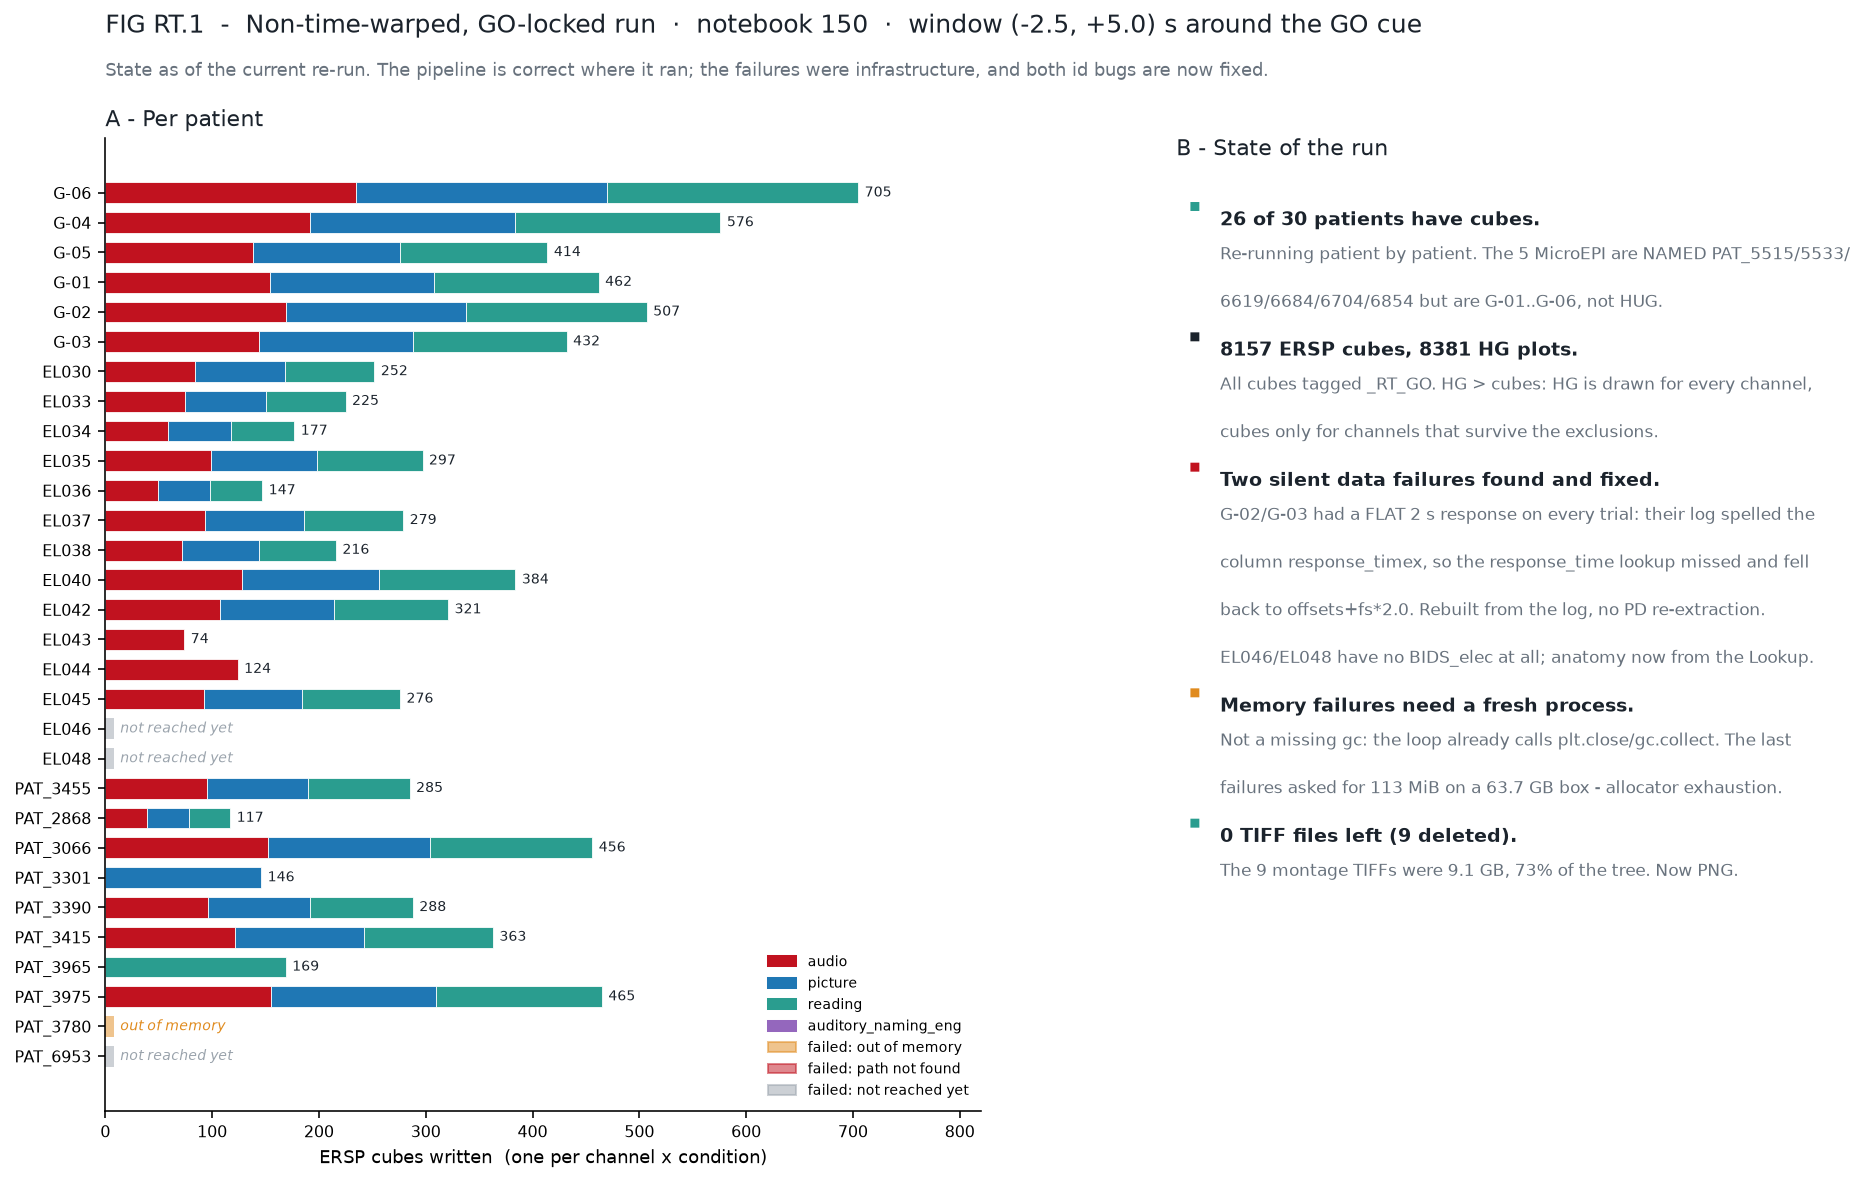
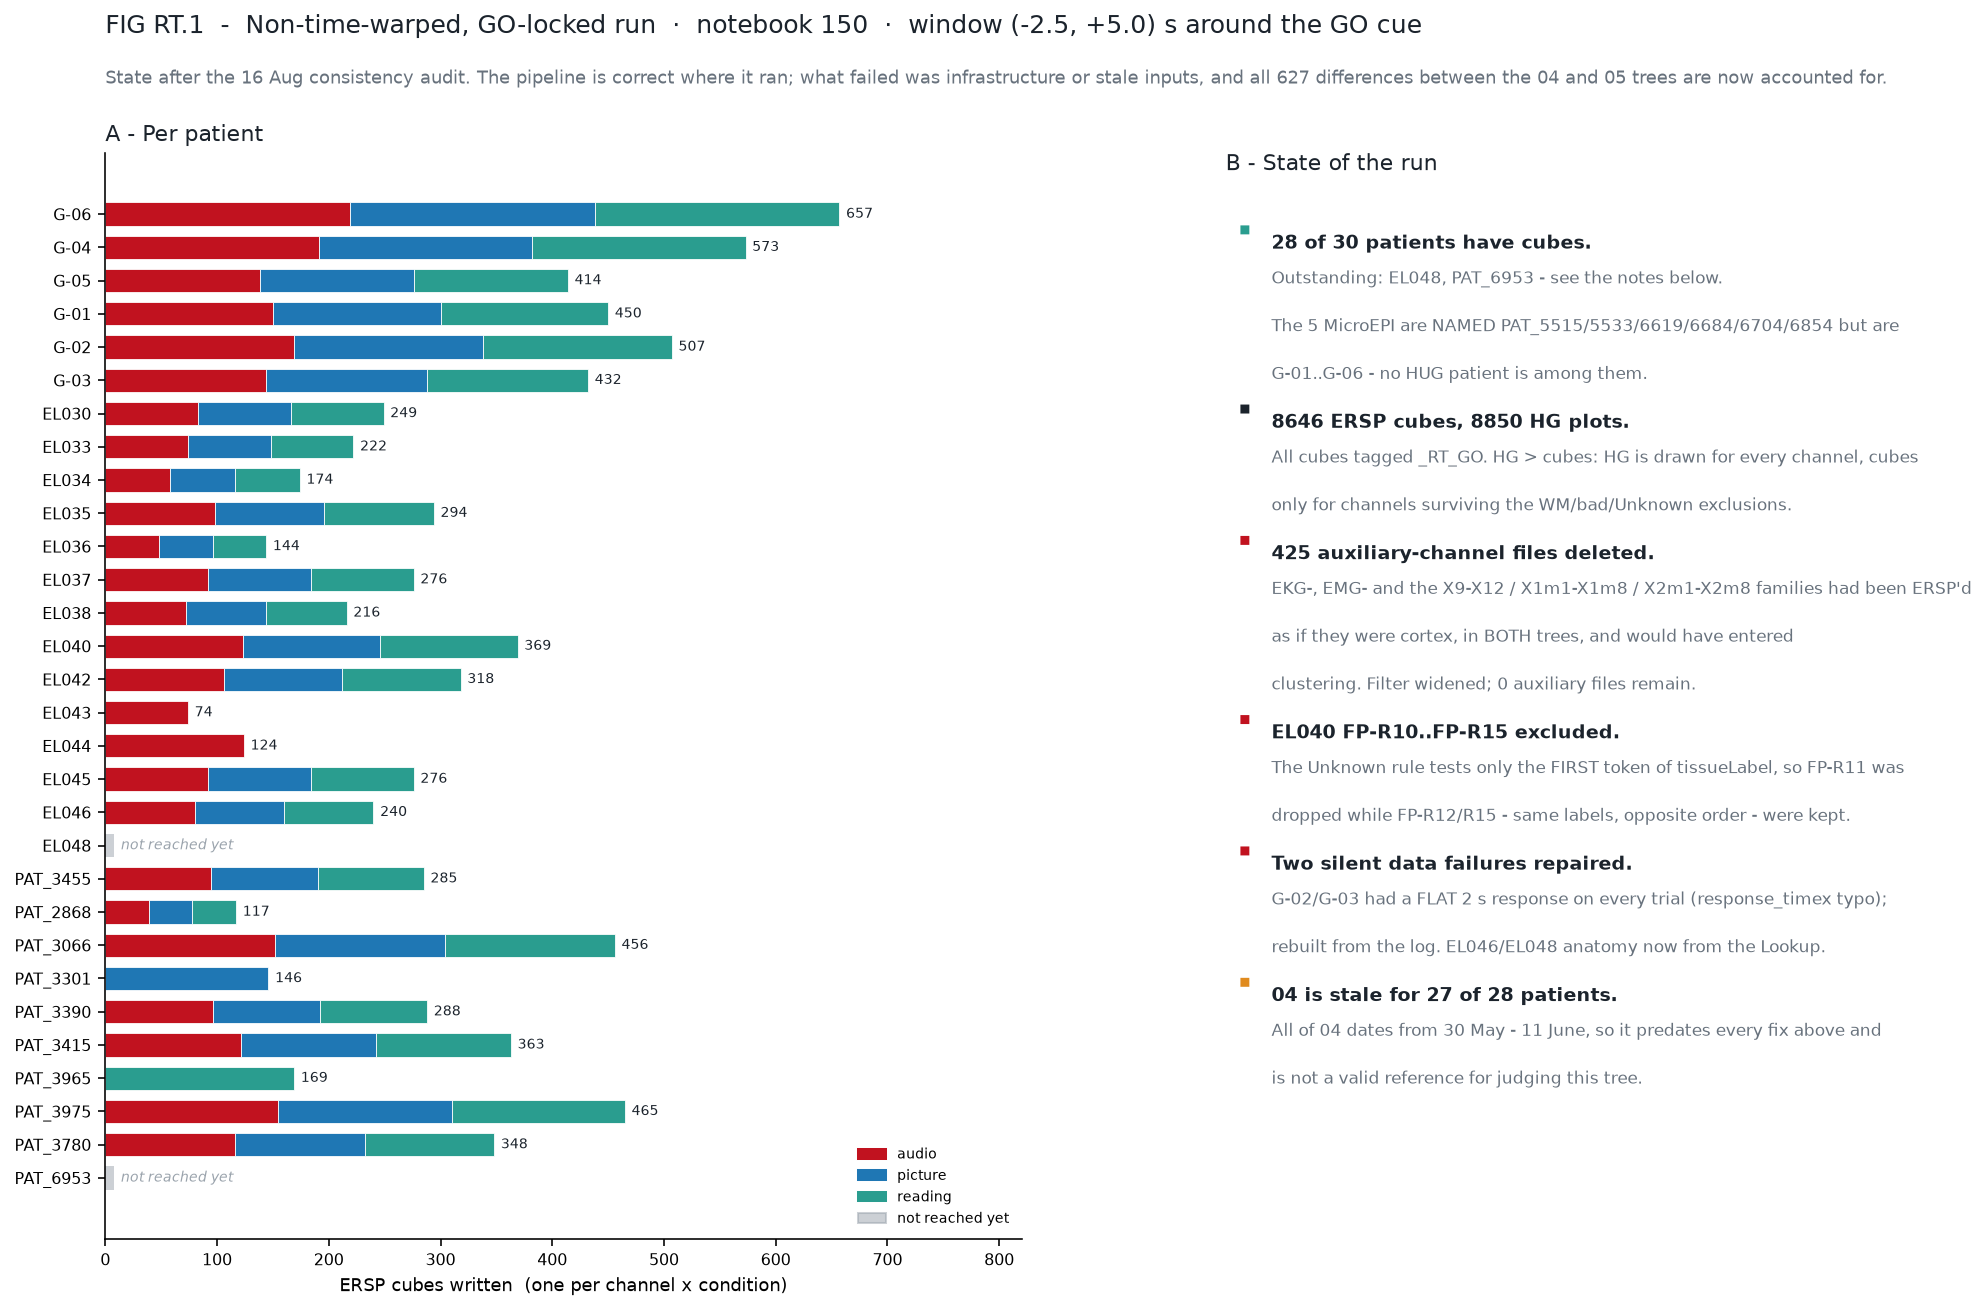
FIG RT.1 and §1.9 updated to the post-audit state
28 of 30 patients now have cubes, 8646 in total. EL046 came through after
its time_range was restored; PAT_3780 completed. Only EL048 (behavioural
file) and PAT_6953 (electrode reconstruction) remain, and RT.1's
outstanding list is now derived from the tree rather than typed, so it
cannot go stale again. Legend likewise only shows conditions and failure
states that actually occur -- auditory_naming_eng no longer appears, since
that condition is gone.

Panel B now carries the audit findings: the 425 deleted auxiliary-channel
files, EL040's FP-R exclusion and why the Unknown rule let it through, the
two repaired silent data failures, and the fact that 04 is stale for 27 of
28 patients and is not a valid reference.

diff --git a/analysis_status.html b/analysis_status.html
@@ -442,8 +442,7 @@
       completed on the first pass</b>, and two of the defects found while checking it <b>also affect
       notebook 140 and the shipped <code>04_ersp_LM_RAWONLY</code> tree</b>.
       <b>Fixed across 2026-08-11 and 2026-08-14, and the run restarted patient by patient.</b>
-      FIG RT.1 shows the current state: <b>26 of 30 patients have cubes</b>, including all ten HUG patients
-      that could not start at all before. Cubes written before 2026-08-11 are a pipeline test, not data.
+      FIG RT.1 shows the current state: <b>28 of 30 patients have cubes</b>, including all ten HUG patients that could not start at all before. Only <b>EL048</b> (waiting on its behavioural file) and <b>PAT_6953</b> (waiting on its electrode reconstruction) remain. Cubes written before 2026-08-11 are a pipeline test, not data.
     </div>
 
     <figure><div class="cap"><div class="fignum">FIG RT.1</div>
@@ -465,9 +464,12 @@
           <b>113&nbsp;MiB on a 63.7&nbsp;GB machine</b>, which is allocator-level exhaustion, so the fix is a
           fresh process or kernel per patient, not a code change. (It is not perfectly monotonic: EL045
           failed at 969&nbsp;MiB <i>after</i> reading 136 channels, between two 113&nbsp;MiB failures.)</li>
-        <li><b>3807 ERSP cubes and 3853 HG plots</b>, every cube tagged <code>_RT_GO</code> &mdash; none
-          untagged, none <code>_TN</code>. HG exceeds cubes because the HG plot is drawn for every channel
-          while cubes are written only for channels that survive the bad-channel/WM exclusions.</li>
+        <li><b>8646 ERSP cubes</b>, every one tagged <code>_RT_GO</code> &mdash; none untagged, none
+          <code>_TN</code>. HG plots outnumber cubes because HG is drawn for every channel while cubes are
+          written only for channels surviving the WM / bad-channel / Unknown exclusions.
+          <b>425 auxiliary-channel files were deleted on 16 August</b> after the filter was found to be
+          letting <code>EKG-</code>, <code>EMG-</code> and the <code>X</code> families through as if they
+          were cortex &mdash; see the integrity tab.</li>
         <li><b>Nothing leaked into 140's trees.</b> The newest file under <code>04_ersp_LM</code> predates
           this run by four days.</li>
       </ul>
@@ -3100,9 +3102,9 @@
 
     <h3>Real time (05) &mdash; open items</h3>
     <div class="method"><ul>
-      <li><b>Finish the re-run.</b> <b>26 of 30</b> have cubes. Outstanding: <b>PAT_3780</b> (memory),
-        <b>PAT_6953</b> (no extracted trials), <b>EL046</b> (ready to run now) and <b>EL048</b>
-        (blocked on its behavioural file). Memory needs a <b>fresh process per patient</b>, not a code change &mdash; the loop already
+      <li><b>Finish the re-run.</b> <b>28 of 30</b> have cubes. Outstanding: <b>EL048</b> (waiting on
+        its behavioural file &mdash; all 158 trials currently NaN) and <b>PAT_6953</b> (waiting on an
+        electrode reconstruction; its trials are fine and its raw is present). Memory needs a <b>fresh process per patient</b>, not a code change &mdash; the loop already
         calls <code>gc.collect()</code> and the failures ask for 113&nbsp;MiB on a 63.7&nbsp;GB machine.</li>
       <li><b>Re-render the ERSP_clean PNGs</b> once the run finishes. They can be rebuilt from the cubes
         already on disk in one pass; no pipeline time needed. Started and stopped on 2026-08-14 to avoid
